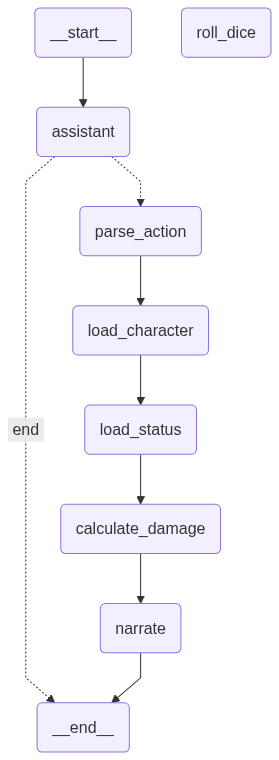
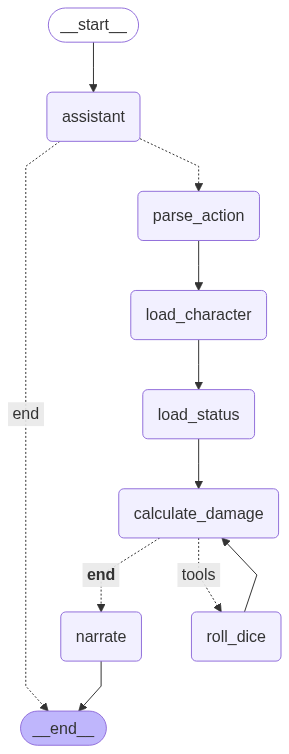
Making dmg calculator a react agent

diff --git a/src/agent.py b/src/agent.py
@@ -8,6 +8,9 @@ from typing import TypedDict, Optional, List, Dict, Any, Literal
 from langgraph.checkpoint.memory import MemorySaver
 from tools import roll_dice, extract_json
 from langgraph.prebuilt import ToolNode, tools_condition
+from typing import Annotated, Sequence
+from langchain_core.messages import BaseMessage
+from langgraph.graph.message import add_messages
 
 
 # -------- Set up OpenAI Key and Model -------- #
@@ -19,14 +22,16 @@ _set_env("OPENAI_API_KEY")
 
 tools = [roll_dice]
 llm = ChatOpenAI(model="gpt-4o")
-llm_with_tools = llm.bind_tools(tools, parallel_tool_calls=False)
+llm = llm.bind_tools(tools, parallel_tool_calls=False)
 
 
 # -------- STATE DEFINITION -------- #
 class CombatState(TypedDict):
+    messages: Annotated[Sequence[BaseMessage], add_messages]
     user_input: str
     parsed_action: Optional[Dict]
     character: Optional[Dict]
+    character_id: str
     hp: int
     status: Optional[Dict]
     target: Optional[Dict]
@@ -39,8 +44,8 @@ class CombatState(TypedDict):
 sys_msg = '''You are a knowledgeable DnD DM tasked with calculating damage rolls. 
 The player will provide a piece of action dialogue containing who is attacking and with what.
 You are to calculate the total damage of the action and provide the damage-type breakdown based on provided json-formatted parameters (features, weapon, stats, etc) that determine the damage.'''
-def assistant(state: MessagesState):
-    return {"messages": [llm_with_tools.invoke([sys_msg] + state["messages"])]}
+def assistant(state: CombatState):
+    return {"messages": [llm.invoke([sys_msg] + state["messages"])]}
 
 # A router that determines the relevancy of the user input
 # and decides whether to calculate dmg or not
@@ -64,8 +69,8 @@ def decide_relevance(state: CombatState) -> Literal["parse_action", "end"]:
 # TODO: Consider how to heal / get temp hp
 def parse_action(state: CombatState) -> CombatState:
     # Ask the LLM to extract structured action info
-    prompt = f"""You are a D&D action interpreter. Parse this input into JSON:
-    "{state['user_input']}"
+    prompt = f"""You are a D&D action interpreter. Parse the user natural language input into JSON:
+    User input: {state['user_input']}
     Output format:
     {{"character": "...", "action_type": "...", "weapon_id": "...", "target_id": "...", "is_critical_hit": true/false, "using_feat": [...]}}
     If no match, return null."""
@@ -93,13 +98,13 @@ def load_character(state: CombatState) -> CombatState:
             }
         }
     }
-    print(state["parsed_action"])
     char_id = state["parsed_action"]["character"]
     state["character"] = char_db.get(char_id)
+    state["character_id"] = char_id
     return state
 
-# --------- STATUS EFFECT LOADER NODE --------- #
 
+# --------- STATUS EFFECT LOADER NODE --------- #
 def load_status(state: CombatState) -> CombatState:
     # Mock status context (e.g., target has fire resistance)
     state["status"] = {
@@ -116,38 +121,38 @@ def load_status(state: CombatState) -> CombatState:
 # to roll for damage for each dmg type
 def calculate_damage(state: CombatState) -> CombatState:
     char = state["character"]
+    char_id = state["character_id"]
     action = state["parsed_action"]
     status = state["status"]
-    
+    is_crit = action['is_critical_hit']
+
     # TODO: Write a fuzzy match helper for this
     # Example: A user might say "Attack with my sword"
     # But the char["inventory"] json has a name attr w/ Flametongue Greatsword
     # Should return a json
     # weapon = char["inventory"][action["weapon_id"]]
     weapon = {"damage": ["2d6", "2d6"], "type": "slashing", "magic_bonus": 1}
-    # is_crit = action.get("is_critical_hit", False)
-    is_crit = action['is_critical_hit']
     
-    damage_components = weapon["damage"]
-    total = 0
-    breakdown = {}
+    prompt = f"""Roll resultant die for {char_id} given the following information:
+    {char_id} action: {action}
+    weapon/spell json: {weapon}
+    {char_id} attributes: {char}
+    {char_id} status: {status}
+    is_crit: {is_crit}
 
-    for dmg_expr in damage_components:
-        base_expr = dmg_expr
-        if is_crit:
-            base_expr = f"{int(base_expr[0]) * 2}d{base_expr[2:]}" if base_expr[1] == 'd' else base_expr
-        dmg = roll_dice(base_expr)
-        dtype = "fire" if "fire" in base_expr else weapon["type"]
-        if dtype in status["resistances"]:
-            dmg = dmg // 2
-        breakdown[dtype] = breakdown.get(dtype, 0) + dmg
-        total += dmg
-    
-    state["damage_report"] = {
-        "total_damage": total,
-        "breakdown": breakdown,
-        "notes": ["Critical hit" if is_crit else "Normal hit"]
-    }
+    Output in json format:
+    {{"total_damage": int, 
+     "breakdown": json,
+     "notes": str}}
+     """
+
+    response = llm.invoke([SystemMessage(content=prompt)])
+    # TODO: Get AI message from this tool call. response content is empty
+    print("calculate_damage", response)
+
+    cleaned_response = extract_json(response.content) if "{" in response.content else None
+
+    state["damage_report"] = cleaned_response
     return state
 
 
@@ -155,9 +160,10 @@ def calculate_damage(state: CombatState) -> CombatState:
 def narrator_output(state: CombatState) -> CombatState:
     char_name = state["character"]
     dmg = state["damage_report"]
-    desc = f"{char_name} hits for {dmg['total_damage']} damage! ({', '.join(f'{k}: {v}' for k,v in dmg['breakdown'].items())})"
-    state["log"].append(desc)
-    print("🧙 " + desc)
+    # desc = f"{char_name} hits for {dmg['total_damage']} damage! ({', '.join(f'{k}: {v}' for k,v in dmg['breakdown'].items())})"
+    # state["log"].append(desc)
+    # print("🧙 " + desc)
+    print("🧙 " + dmg)
     return state
 
 
@@ -185,7 +191,17 @@ graph.add_conditional_edges(
 graph.add_edge("parse_action", "load_character")
 graph.add_edge("load_character", "load_status")
 graph.add_edge("load_status", "calculate_damage")
-graph.add_edge("calculate_damage", "narrate")
+graph.add_edge("roll_dice", "calculate_damage")
+graph.add_conditional_edges(
+    "calculate_damage",
+    # If the latest message (result) from assistant is a tool call -> tools_condition routes to tools
+    # If the latest message (result) from assistant is a not a tool call -> tools_condition routes to END
+    tools_condition,
+    {
+        'tools': 'roll_dice',
+        END: 'narrate'
+    }
+)
 graph.add_edge("narrate", END)
 
 
